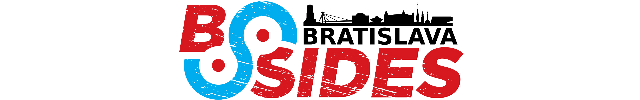
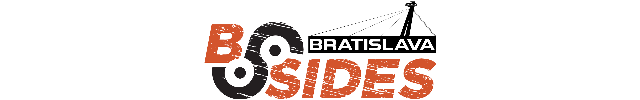
Original branding

Changed region(s): [[0.2812, 0.0, 0.75, 1.0]]

diff --git a/_sass/_variables.scss b/_sass/_variables.scss
@@ -1,5 +1,5 @@
 // Base Colors
-$primary-color: #00adee;
+$primary-color: #D3542C;
 $secondary-color: #fff;
 $complimentary-color: #222;
 $body-bg: #fdfdfd;
